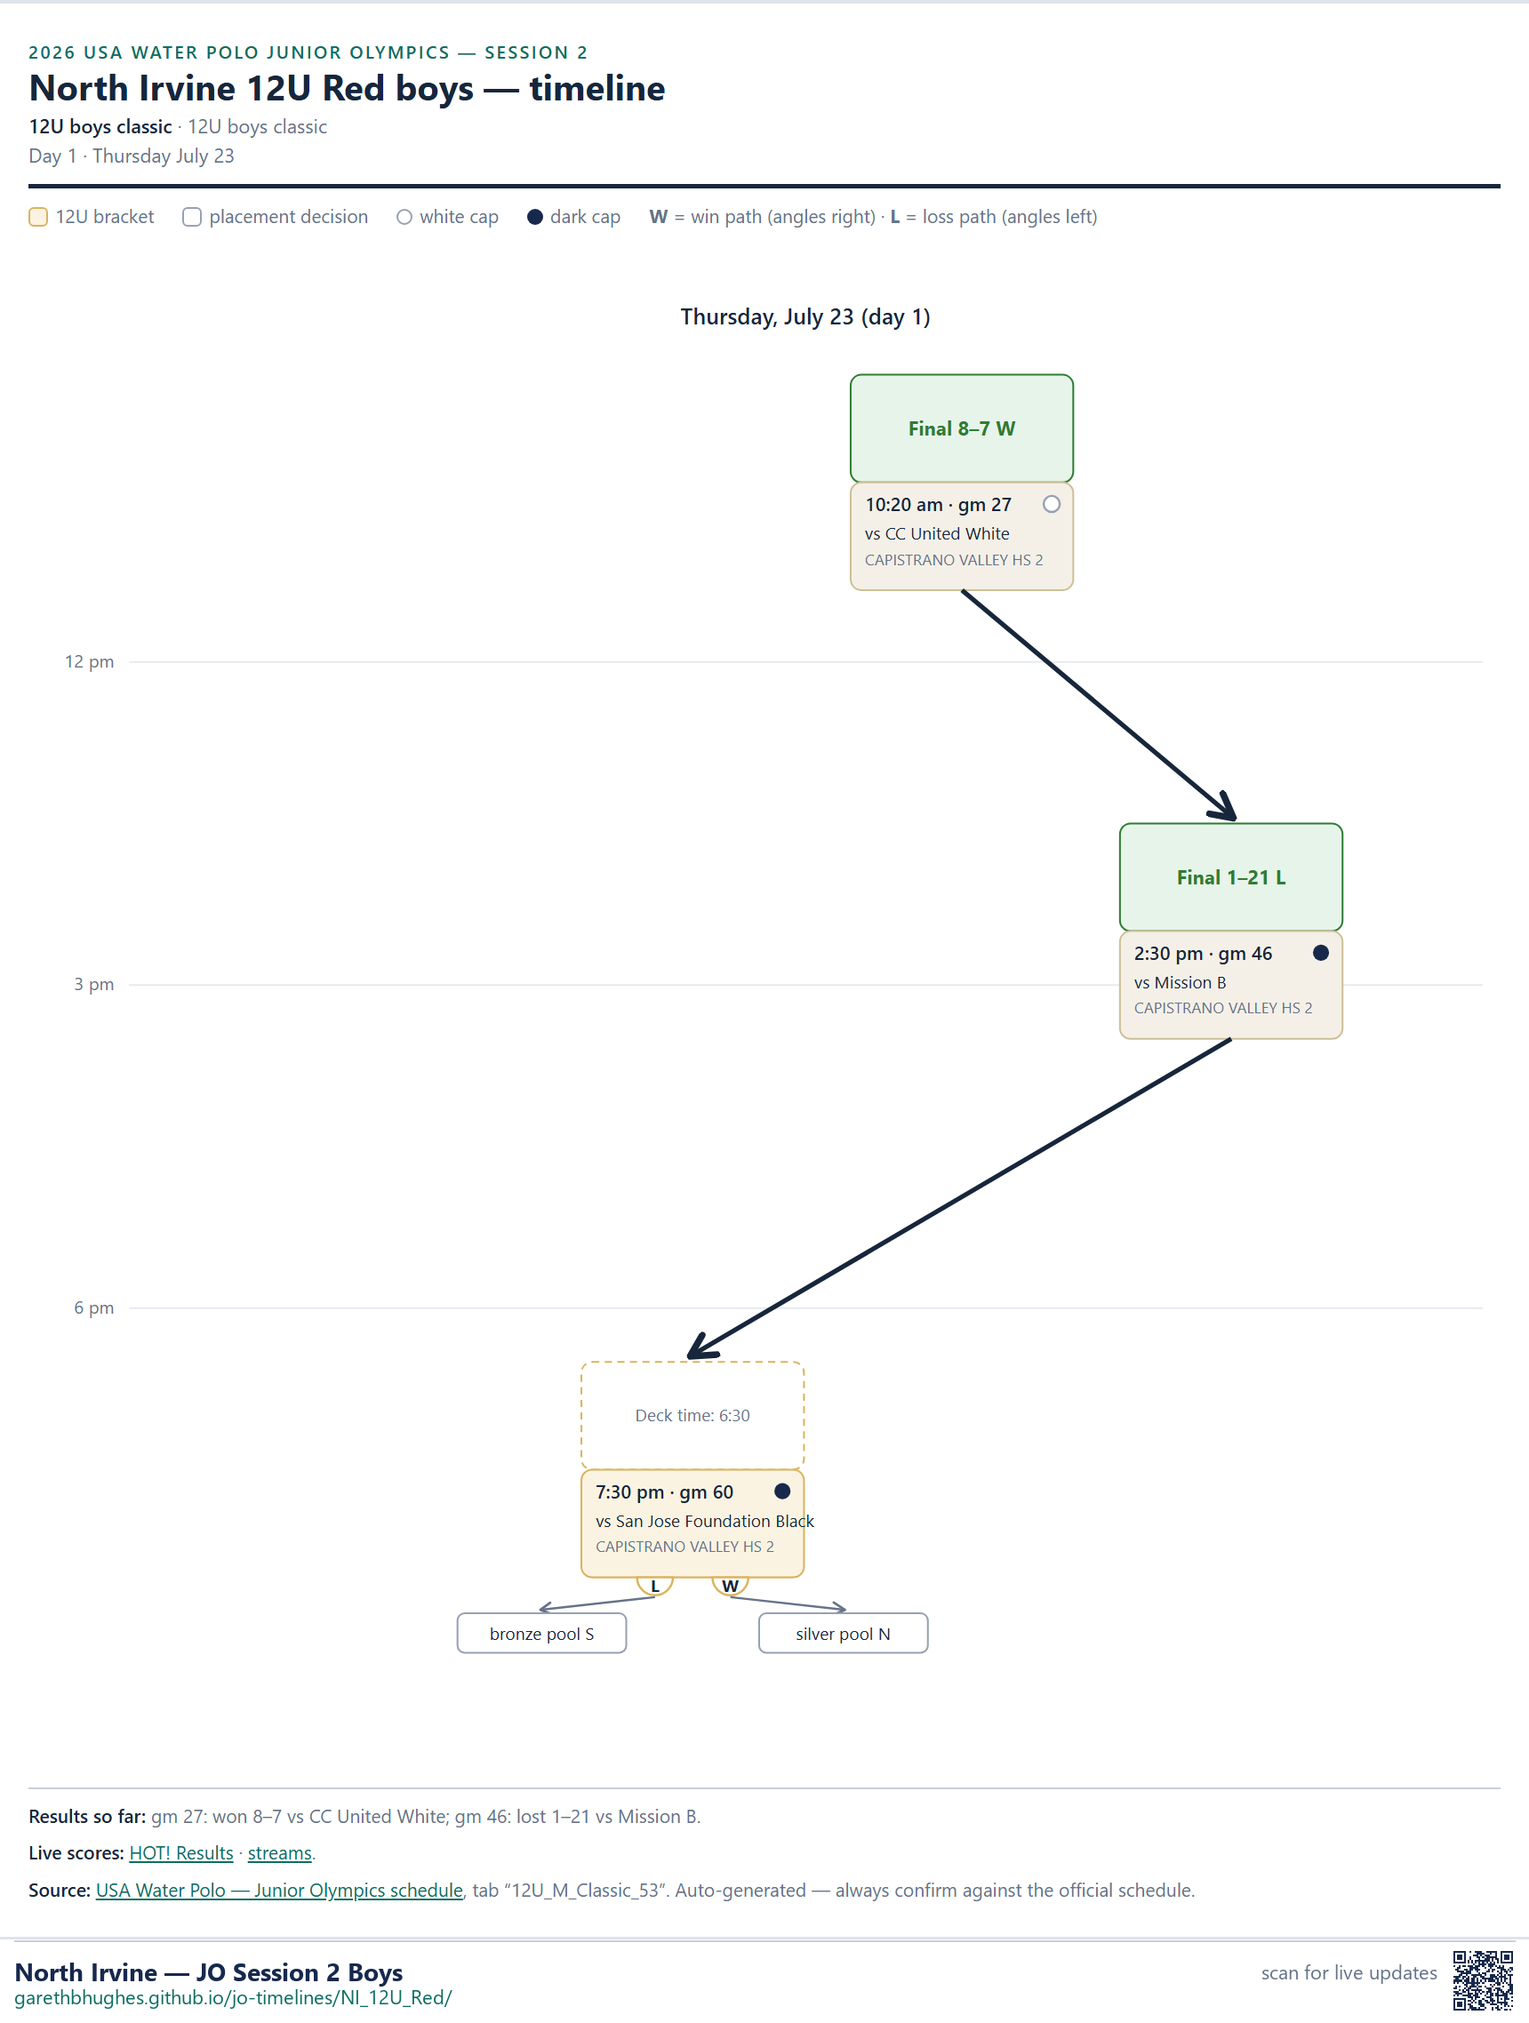
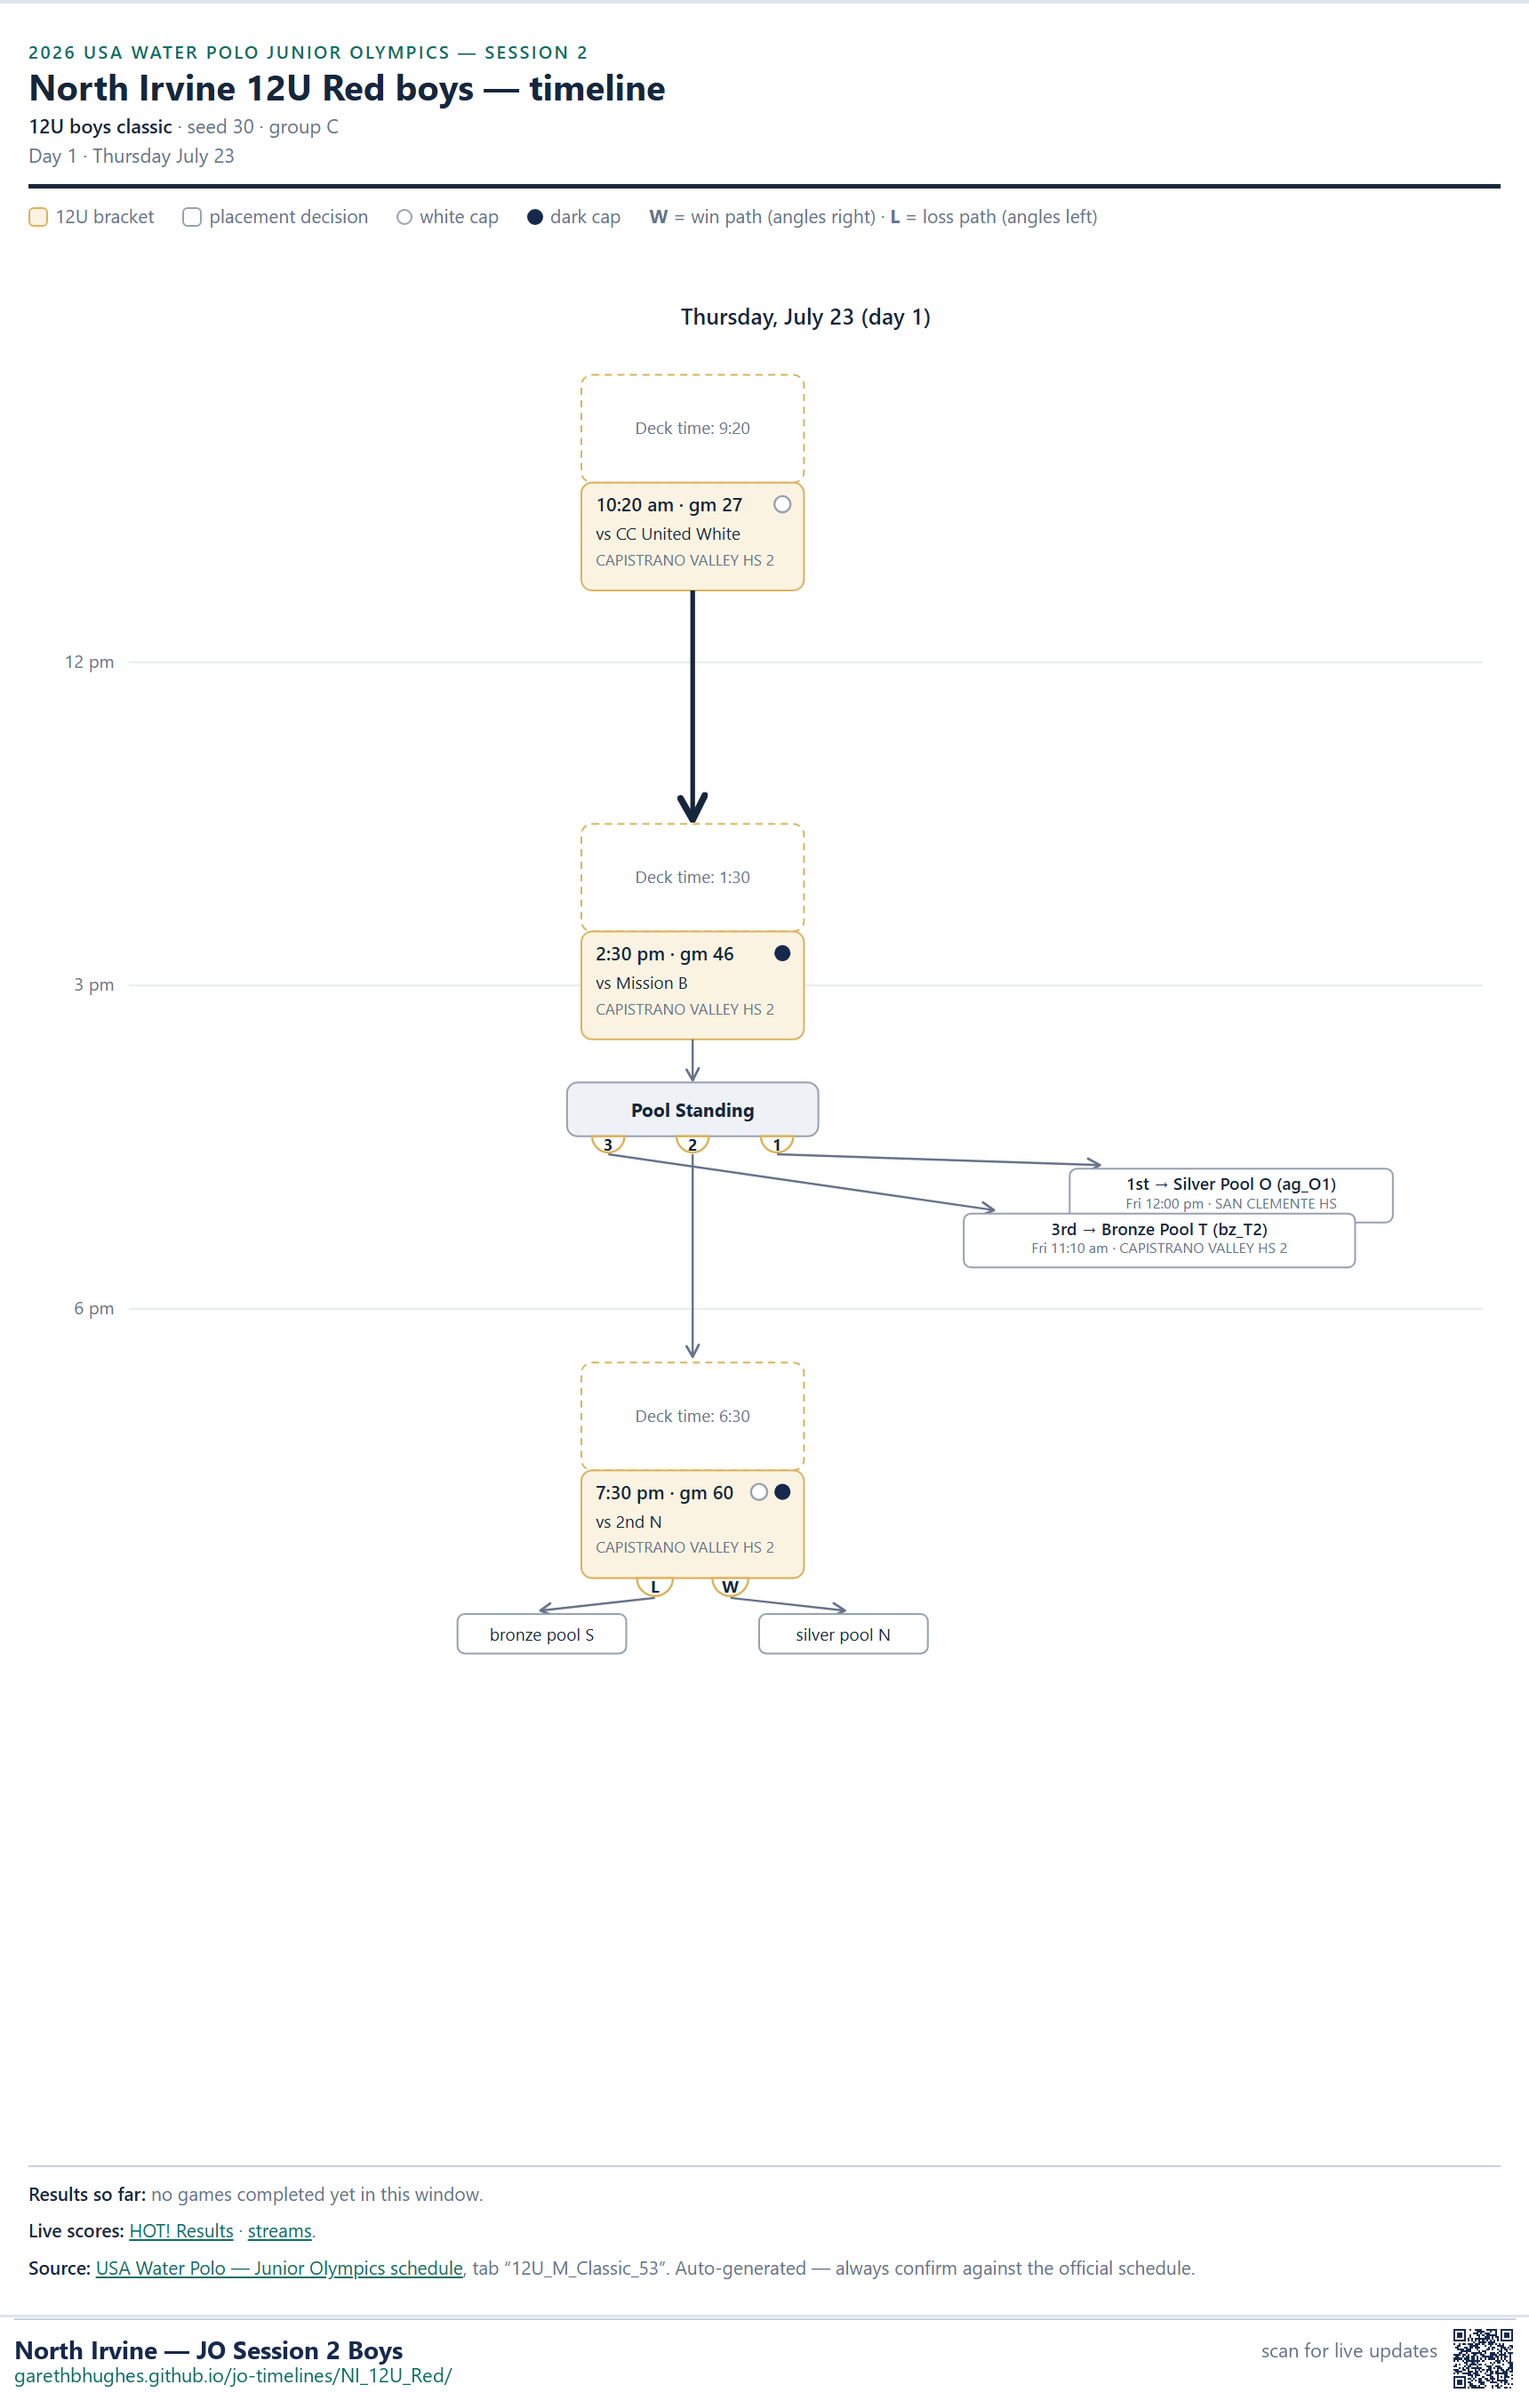
refresh 2026-07-23T21:15

diff --git a/NI_14U_Black/index.html b/NI_14U_Black/index.html
@@ -45,13 +45,13 @@ h2 { font-size:14px; text-transform:uppercase; letter-spacing:.06em; color:var(-
 <header class="site" style="margin-top:8px"><p class="eyebrow">2026 USA Water Polo Junior Olympics — Session 2</p>
 <h1>North Irvine 14U Black boys</h1>
 <p class="stamp"><b>14U boys championship</b> · seed 23<br>
-Last verified against the master schedule at Thursday July 23, 8:30 PM</p>
+Last verified against the master schedule at Thursday July 23, 9:15 PM</p>
 <div class="viewbar"><label for="viewsel">View</label>
 <select id="viewsel" onchange="switchView(this.value)"><option value="vertical">Vertical (this &amp; next day)</option><option value="wide">Wide view (landscape)</option></select></div></header>
 
 <div id="view-vertical" class="viewpane"><img class="tl" src="portrait.png" alt="Upcoming games timeline for North Irvine 14U Black boys"></div><div id="view-wide" class="viewpane" hidden><div class="scroll"><img src="landscape.png" alt="Landscape timeline"></div></div>
-
-<div class="fineprint"><p><b>Results so far:</b> gm 21: lost 7–8 vs San Clemente RED; gm 45: won 24–2 vs Topaz Tsunami.</p><p><b>Live scores:</b> <a href="https://kahunaevents.org">HOT! Results</a> · <a href="https://gols.co/2026-usawp-junior-olympics-session-2/">streams</a>.</p><p><b>Source:</b> <a href="https://usawaterpolo.org/sports/2018/12/19/junior-olympics.aspx#schedule">USA Water Polo — Junior Olympics schedule</a>, tab “14U_M_Champ”. Auto-generated — always confirm against the official schedule.</p></div>
+<h2>Change log</h2><ul class="log"><li><time>8:57 PM</time>Game 53 score updated (vs CC United Blue).</li><li><time>8:57 PM</time>Game 57 score updated (vs South Coast RED).</li></ul>
+<div class="fineprint"><p><b>Results so far:</b> gm 21: lost 7–8 vs San Clemente RED; gm 45: won 24–2 vs Topaz Tsunami; gm 57: lost 6–7 vs South Coast RED.</p><p><b>Live scores:</b> <a href="https://kahunaevents.org">HOT! Results</a> · <a href="https://gols.co/2026-usawp-junior-olympics-session-2/">streams</a>.</p><p><b>Source:</b> <a href="https://usawaterpolo.org/sports/2018/12/19/junior-olympics.aspx#schedule">USA Water Polo — Junior Olympics schedule</a>, tab “14U_M_Champ”. Auto-generated — always confirm against the official schedule.</p></div>
 </div>
 <script>
 function switchView(v){

diff --git a/NI_12U_Red/index.html b/NI_12U_Red/index.html
@@ -45,13 +45,13 @@ h2 { font-size:14px; text-transform:uppercase; letter-spacing:.06em; color:var(-
 <header class="site" style="margin-top:8px"><p class="eyebrow">2026 USA Water Polo Junior Olympics — Session 2</p>
 <h1>North Irvine 12U Red boys</h1>
 <p class="stamp"><b>12U boys classic</b> · 12U boys classic<br>
-Last verified against the master schedule at Thursday July 23, 8:30 PM</p>
+Last verified against the master schedule at Thursday July 23, 9:15 PM</p>
 <div class="viewbar"><label for="viewsel">View</label>
 <select id="viewsel" onchange="switchView(this.value)"><option value="vertical">Vertical (this &amp; next day)</option><option value="wide">Wide view (landscape)</option></select></div></header>
 
 <div id="view-vertical" class="viewpane"><img class="tl" src="portrait.png" alt="Upcoming games timeline for North Irvine 12U Red boys"></div><div id="view-wide" class="viewpane" hidden><div class="scroll"><img src="landscape.png" alt="Landscape timeline"></div></div>
-
-<div class="fineprint"><p><b>Results so far:</b> gm 27: won 8–7 vs CC United White; gm 46: lost 1–21 vs Mission B.</p><p><b>Live scores:</b> <a href="https://kahunaevents.org">HOT! Results</a> · <a href="https://gols.co/2026-usawp-junior-olympics-session-2/">streams</a>.</p><p><b>Source:</b> <a href="https://usawaterpolo.org/sports/2018/12/19/junior-olympics.aspx#schedule">USA Water Polo — Junior Olympics schedule</a>, tab “12U_M_Classic_53”. Auto-generated — always confirm against the official schedule.</p></div>
+<h2>Change log</h2><ul class="log"><li><time>8:57 PM</time>Game 60 score updated (vs San Jose Foundation Black).</li></ul>
+<div class="fineprint"><p><b>Results so far:</b> gm 27: won 8–7 vs CC United White; gm 46: lost 1–21 vs Mission B; gm 60: lost 4–7 vs San Jose Foundation Black.</p><p><b>Live scores:</b> <a href="https://kahunaevents.org">HOT! Results</a> · <a href="https://gols.co/2026-usawp-junior-olympics-session-2/">streams</a>.</p><p><b>Source:</b> <a href="https://usawaterpolo.org/sports/2018/12/19/junior-olympics.aspx#schedule">USA Water Polo — Junior Olympics schedule</a>, tab “12U_M_Classic_53”. Auto-generated — always confirm against the official schedule.</p></div>
 </div>
 <script>
 function switchView(v){

diff --git a/index.html b/index.html
@@ -43,9 +43,9 @@ h2 { font-size:14px; text-transform:uppercase; letter-spacing:.06em; color:var(-
 </style></head><body><div class="wrap">
 <header class="site"><p class="eyebrow">2026 USA Water Polo Junior Olympics — Session 2</p>
 <h1>North Irvine — JO Session 2 Boys</h1>
-<p class="stamp">Last refreshed Thursday July 23, 8:57 PM · auto-updates from the master schedule</p></header>
+<p class="stamp">Last refreshed Thursday July 23, 9:15 PM · auto-updates from the master schedule</p></header>
 <p>Tap your team for the up-to-date timeline (win/loss paths, times, venues, deck times):</p>
-<ul class="teams"><a href="NI_12U_Black/"><span>North Irvine 12U Black boys</span><span class="div">12U boys championship →</span></a><a href="NI_18U_Black/"><span>North Irvine 18U Black boys</span><span class="div">18U boys championship →</span></a><a href="NI_18U_Red/"><span>North Irvine 18U Red boys</span><span class="div">18U boys championship →</span></a><a href="NI_14U_Red/"><span>North Irvine 14U Red boys</span><span class="div">14U boys invite →</span></a></ul>
+<ul class="teams"><a href="NI_12U_Black/"><span>North Irvine 12U Black boys</span><span class="div">12U boys championship →</span></a><a href="NI_14U_Black/"><span>North Irvine 14U Black boys</span><span class="div">14U boys championship →</span></a><a href="NI_18U_Black/"><span>North Irvine 18U Black boys</span><span class="div">18U boys championship →</span></a><a href="NI_18U_Red/"><span>North Irvine 18U Red boys</span><span class="div">18U boys championship →</span></a><a href="NI_12U_Red/"><span>North Irvine 12U Red boys</span><span class="div">12U boys classic →</span></a><a href="NI_14U_Red/"><span>North Irvine 14U Red boys</span><span class="div">14U boys invite →</span></a></ul>
 <p class="links"><b>Live scores:</b> <a href="https://kahunaevents.org">HOT! Results</a> ·
 <a href="https://gols.co/2026-usawp-junior-olympics-session-2/">streams</a></p>
 <p class="fineprint">Unofficial, auto-generated from the tournament master schedule.

diff --git a/NI_14U_Red/index.html b/NI_14U_Red/index.html
@@ -45,7 +45,7 @@ h2 { font-size:14px; text-transform:uppercase; letter-spacing:.06em; color:var(-
 <header class="site" style="margin-top:8px"><p class="eyebrow">2026 USA Water Polo Junior Olympics — Session 2</p>
 <h1>North Irvine 14U Red boys</h1>
 <p class="stamp"><b>14U boys invite</b> · seed 15 · group J<br>
-Last verified against the master schedule at Thursday July 23, 8:57 PM</p>
+Last verified against the master schedule at Thursday July 23, 9:15 PM</p>
 <div class="viewbar"><label for="viewsel">View</label>
 <select id="viewsel" onchange="switchView(this.value)"><option value="vertical">Vertical (this &amp; next day)</option><option value="wide">Wide view (landscape)</option></select></div></header>
 

diff --git a/NI_18U_Black/index.html b/NI_18U_Black/index.html
@@ -45,7 +45,7 @@ h2 { font-size:14px; text-transform:uppercase; letter-spacing:.06em; color:var(-
 <header class="site" style="margin-top:8px"><p class="eyebrow">2026 USA Water Polo Junior Olympics — Session 2</p>
 <h1>North Irvine 18U Black boys</h1>
 <p class="stamp"><b>18U boys championship</b> · seed 27<br>
-Last verified against the master schedule at Thursday July 23, 8:57 PM</p>
+Last verified against the master schedule at Thursday July 23, 9:15 PM</p>
 <div class="viewbar"><label for="viewsel">View</label>
 <select id="viewsel" onchange="switchView(this.value)"><option value="vertical">Vertical (this &amp; next day)</option><option value="wide">Wide view (landscape)</option></select></div></header>
 

diff --git a/NI_12U_Black/index.html b/NI_12U_Black/index.html
@@ -45,7 +45,7 @@ h2 { font-size:14px; text-transform:uppercase; letter-spacing:.06em; color:var(-
 <header class="site" style="margin-top:8px"><p class="eyebrow">2026 USA Water Polo Junior Olympics — Session 2</p>
 <h1>North Irvine 12U Black boys</h1>
 <p class="stamp"><b>12U boys championship</b> · seed 5<br>
-Last verified against the master schedule at Thursday July 23, 8:57 PM</p>
+Last verified against the master schedule at Thursday July 23, 9:15 PM</p>
 <div class="viewbar"><label for="viewsel">View</label>
 <select id="viewsel" onchange="switchView(this.value)"><option value="vertical">Vertical (this &amp; next day)</option><option value="wide">Wide view (landscape)</option></select></div></header>
 

diff --git a/NI_18U_Red/index.html b/NI_18U_Red/index.html
@@ -45,7 +45,7 @@ h2 { font-size:14px; text-transform:uppercase; letter-spacing:.06em; color:var(-
 <header class="site" style="margin-top:8px"><p class="eyebrow">2026 USA Water Polo Junior Olympics — Session 2</p>
 <h1>North Irvine 18U Red boys</h1>
 <p class="stamp"><b>18U boys championship</b> · seed 35<br>
-Last verified against the master schedule at Thursday July 23, 8:57 PM</p>
+Last verified against the master schedule at Thursday July 23, 9:15 PM</p>
 <div class="viewbar"><label for="viewsel">View</label>
 <select id="viewsel" onchange="switchView(this.value)"><option value="vertical">Vertical (this &amp; next day)</option><option value="wide">Wide view (landscape)</option></select></div></header>
 
